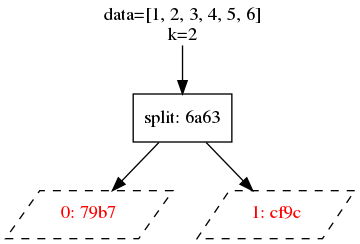
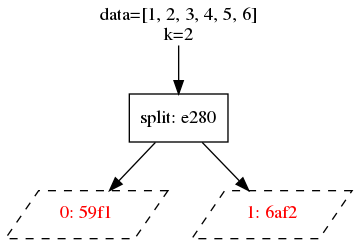
Make pipeline code a bit more narrow

diff --git a/docs/outs_lambda.py b/docs/outs_lambda.py
@@ -3,7 +3,8 @@ from merkl import task
 @task(outs=lambda data, k: k)
 def split(data, k):
     ksize = len(data) // k
-    return [data[i*ksize:(i+1)*ksize] for i in range(k)]
+    return [data[i*ksize:(i+1)*ksize]
+            for i in range(k)]
 
 def pipeline():
     return split([1, 2, 3, 4, 5, 6], k=2)

diff --git a/README.md b/README.md
@@ -1,7 +1,9 @@
 # MerkL - flexible ML pipelines in Python with great caching
 
-MerkL is a tool for creating ML pipelines in pure Python that are useful for development and experimentation, but also
-easy to deploy to production without modifications. Results are cached using Merkle hashes of the code and inputs as keys.
+MerkL is a tool for creating ML pipelines in pure Python that are useful for
+development and experimentation, but also easy to deploy to production without
+modifications. Results are cached using Merkle hashes of the code and inputs as
+keys, greatly simplifying caching and reducing the need for a feature store.
 
 ## Tour and examples
 
@@ -272,7 +274,8 @@ from merkl import task
 @task(outs=lambda data, k: k)
 def split(data, k):
     ksize = len(data) // k
-    return [data[i*ksize:(i+1)*ksize] for i in range(k)]
+    return [data[i*ksize:(i+1)*ksize]
+            for i in range(k)]
 
 def pipeline():
     return split([1, 2, 3, 4, 5, 6], k=2)
@@ -347,7 +350,7 @@ outputs between them will be cached. In this case you can use the `batch` decora
 ```python
 @batch(embed_word)
 def embed_words(words):
-    [...]
+    ...
     return embedded_words
 ```
 
@@ -358,7 +361,7 @@ case you can also use the `batch` decorator but without an argument:
 
 @batch
 def embed_words(words):
-    [...]
+    ...
     return embedded_words
 
 ```
